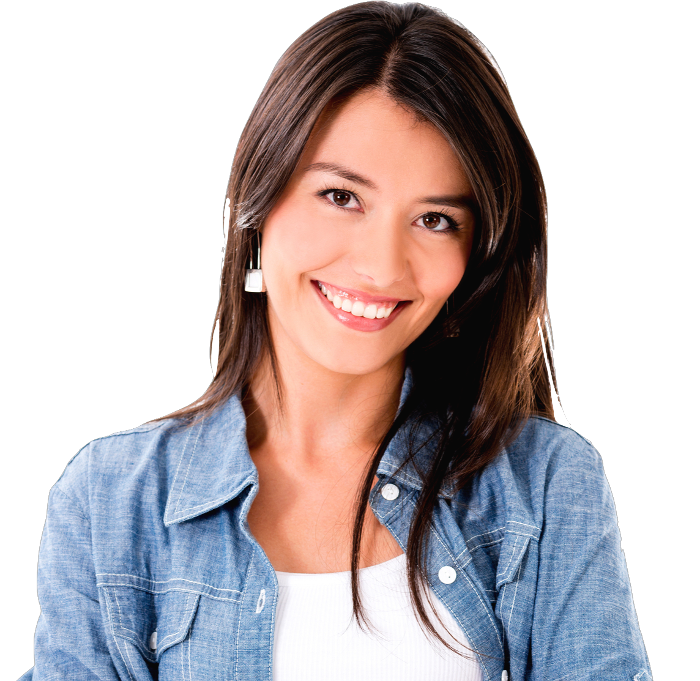
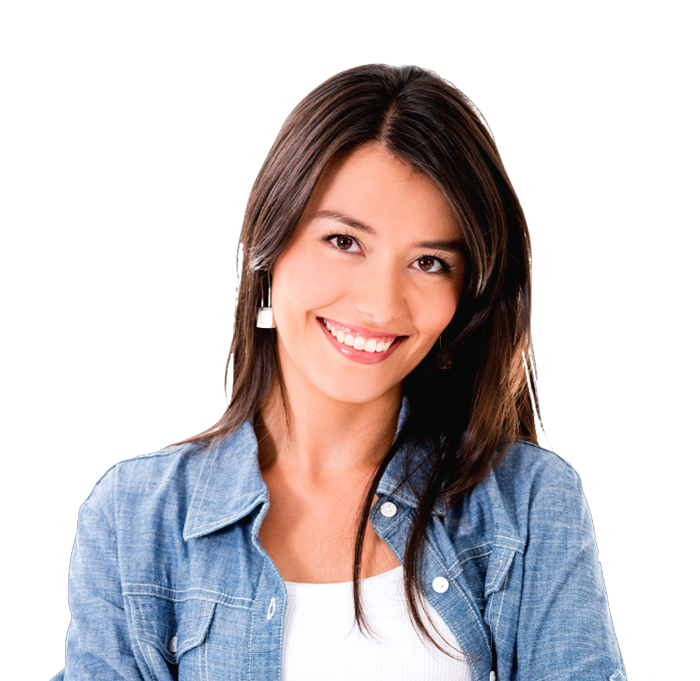
feat(testimonials): layout and css implementation in the project

diff --git a/index.html b/index.html
@@ -87,6 +87,90 @@
                     </article>
                 </div>
             </section>
+            <section class="testimonials">
+                <h2 class="testimonials__title">"T'ensenyem el que opinen els nostres súper-usuaris!”</h2>
+                <div class="testimonials__carousel">
+                    <div class="testimonials__grid">
+                        <article class="testimonials-card">
+                            <header class="testimonials-card__header">
+                                <img
+                                    src="./public/assets/images/avatars/avatar-mikel.svg"
+                                    alt="Foto de perfil de Mikel"
+                                    class="testimonials-card__avatar"
+                                />
+                                <div class="testimonials-card__info">
+                                    <h3 class="testimonials-card__autor">Mikel</h3>
+                                    <div class="testimonials-card__raiting" aria-label="5 de 5 estrelles">
+                                        <img src="./public/assets/icons/icon-star.svg" alt="" />
+                                        <img src="./public/assets/icons/icon-star.svg" alt="" />
+                                        <img src="./public/assets/icons/icon-star.svg" alt="" />
+                                        <img src="./public/assets/icons/icon-star.svg" alt="" />
+                                        <img src="./public/assets/icons/icon-star.svg" alt="" />
+                                    </div>
+                                </div>
+                            </header>
+                            <blockquote class="testimonial-card__quote">
+                                "Gràcies a IT Alumni vaig aconseguir la feina dels meus somnis en el món tech amb el seu
+                                increïble programa de mentoria."
+                            </blockquote>
+                        </article>
+                        <article class="testimonials-card">
+                            <header class="testimonials-card__header">
+                                <img
+                                    src="./public/assets/images/avatars/avatar-emma.svg"
+                                    alt="Foto de perfil de emma"
+                                    class="testimonials-card__avatar"
+                                />
+                                <div class="testimonials-card__info">
+                                    <h3 class="testimonials-card__autor">Emma</h3>
+                                    <div class="testimonials-card__raiting" aria-label="5 de 5 estrelles">
+                                        <img src="./public/assets/icons/icon-star.svg" alt="" />
+                                        <img src="./public/assets/icons/icon-star.svg" alt="" />
+                                        <img src="./public/assets/icons/icon-star.svg" alt="" />
+                                        <img src="./public/assets/icons/icon-star.svg" alt="" />
+                                        <img src="./public/assets/icons/icon-star.svg" alt="" />
+                                    </div>
+                                </div>
+                            </header>
+                            <blockquote class="testimonial-card__quote">
+                                “La meva xarxa d'aquesta comunitat ha estat clau: va revolucionar la meva carrera i em
+                                va mostrar camins insospitats."
+                            </blockquote>
+                        </article>
+                        <article class="testimonials-card">
+                            <header class="testimonials-card__header">
+                                <img
+                                    src="./public/assets/images/avatars/avatar-laia.png"
+                                    alt="Foto de perfil de Laia"
+                                    class="testimonials-card__avatar"
+                                />
+                                <div class="testimonials-card__info">
+                                    <h3 class="testimonials-card__autor">Laia</h3>
+                                    <div class="testimonials-card__raiting" aria-label="5 de 5 estrelles">
+                                        <img src="./public/assets/icons/icon-star.svg" alt="" />
+                                        <img src="./public/assets/icons/icon-star.svg" alt="" />
+                                        <img src="./public/assets/icons/icon-star.svg" alt="" />
+                                        <img src="./public/assets/icons/icon-star.svg" alt="" />
+                                        <img src="./public/assets/icons/icon-star.svg" alt="" />
+                                    </div>
+                                </div>
+                            </header>
+                            <blockquote class="testimonial-card__quote">
+                                "IT Alumni em va donar les eines i l’autoestima per fer realitat el meu somni
+                                d’emprendre."
+                            </blockquote>
+                        </article>
+                    </div>
+                    <div class="testimonials__controls">
+                        <button class="testimonials__btn testimonials__btn--prev" aria-label="Testimoni anterior">
+                            <img src="./public/assets/icons/icon-arrow-left.svg" alt="" />
+                        </button>
+                        <button class="testimonials__btn testimonials__btn--next" aria-label="Testimoni seguent">
+                            <img src="./public/assets/icons/icon-arrow-right.svg" alt="" />
+                        </button>
+                    </div>
+                </div>
+            </section>
         </main>
         <footer class="footer">
             <div class="footer__top">

diff --git a/src/styles/testimonials.css b/src/styles/testimonials.css
@@ -1,0 +1,89 @@
+.testimonials {
+    display: none;
+}
+
+@media (min-width: 1024px) {
+    .testimonials {
+        width: 80%;
+        display: block;
+        margin: 12rem auto;
+        text-align: center;
+    }
+
+    .testimonials__title {
+        color: var(--text-primary);
+        font-weight: 400;
+        font-size: 1.8rem;
+    }
+
+    .testimonials__grid {
+        display: grid;
+        grid-template-columns: repeat(3, 1fr);
+        gap: 2rem;
+        max-width: 1300px;
+        margin: 5rem auto 2rem;
+    }
+    .testimonials-card {
+        border: 1px solid var(--color-border);
+        border-radius: var(--radius-sm);
+        box-shadow: var(--shadow-sm);
+        padding: 1.5rem;
+    }
+    .testimonials-card__header {
+        display: flex;
+        gap: 1.5rem;
+    }
+    .testimonials-card__avatar {
+        height: 64px;
+        background: #f1d1e8;
+        border-radius: 100%;
+    }
+
+    .testimonials-card__info {
+        display: flex;
+        flex-direction: column;
+        justify-content: center;
+        gap: 0.5rem;
+        align-items: flex-start;
+    }
+
+    .testimonials-card__autor {
+        font-size: 1.3rem;
+        color: #323842;
+    }
+    .testimonial-card__quote {
+        margin-top: 1.5rem;
+        text-align: left;
+        line-height: 1.5rem;
+        font-weight: 400;
+    }
+
+    .testimonials__controls {
+        display: flex;
+        justify-content: center;
+        gap: 2rem;
+        align-items: center;
+    }
+
+    .testimonials__btn {
+        width: 3rem;
+        height: 3rem;
+        border-radius: 100%;
+        border: none;
+        display: flex;
+        align-items: center;
+        justify-content: center;
+    }
+}
+
+@media (min-width: 1400px) {
+    .testimonials__grid {
+        gap: 4rem;
+    }
+}
+
+@media (min-width: 1600px) {
+    .testimonials__grid {
+        gap: 6rem;
+    }
+}

diff --git a/src/styles/global.css b/src/styles/global.css
@@ -4,6 +4,7 @@
 @import url('./footer.css');
 @import url('./hero.css');
 @import url('./benefits.css');
+@import url('./testimonials.css');
 
 :root {
     --text-primary: #171a1f;
@@ -12,7 +13,7 @@
     --color-secundary: #873aaa;
     --color-terciary: #1d212b;
     --color-btn-secundary: #fef0f9;
-    --color-border: #dee1e6;
+    --color-border: #dee1e66b;
     --bg-body: #ffffff;
     --bg-input: #f3f4f6;
     --bg-card: #d9d9d9;
@@ -20,7 +21,7 @@
     --font-logo: 'Wallpoet', sans-serif;
     --radius-sm: 10px;
     --radius-md: 2rem;
-    --shadow-sm: 0 2px 8px rgba(0, 0, 0, 0.05);
+    --shadow-sm: 0 2px 20px rgb(0 0 0 / 2%);
 }
 
 * {

diff --git a/src/styles/benefits.css b/src/styles/benefits.css
@@ -12,7 +12,7 @@
     .benefits__title {
         color: var(--text-primary);
         font-weight: 400;
-        font-size: 1.3rem;
+        font-size: 1.5rem;
     }
     .benefits__container {
         display: grid;

diff --git a/src/main.ts b/src/main.ts
@@ -1,5 +1,6 @@
 console.log('hoola');
 console.log('🚀 ¡main.ts cargado correctamente!');
+console.log('🚀 ¡main.ts cargado correctamente, nuevoooo!');
 
 type User = {
     name: string;
